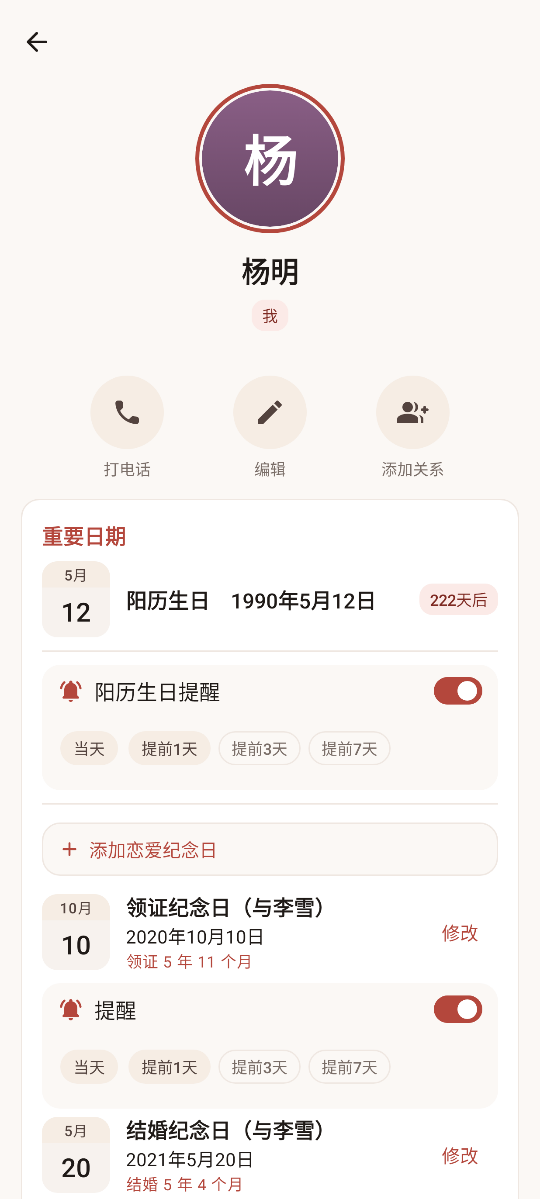
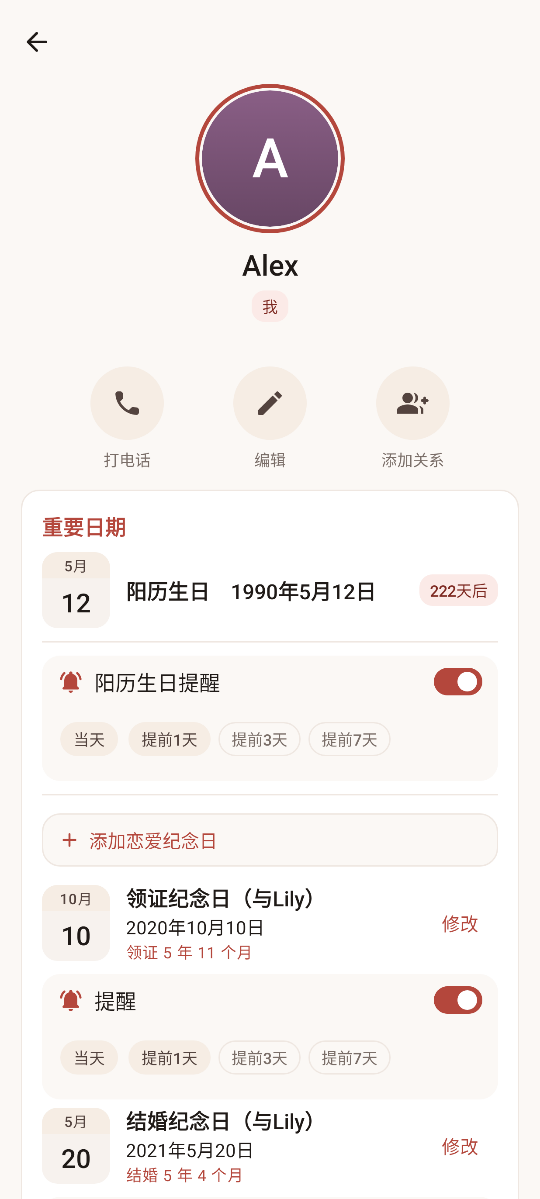
家人侠 2.0.0：README 截图刷新为现版界面（英文合成示例、一级页三项底栏）；dl-worker 统计命令修正

diff --git a/apps/android/app/src/test/java/io/github/xiaohaoz1/jiarenxia/screenshots/ReadmeShotsTest.kt b/apps/android/app/src/test/java/io/github/xiaohaoz1/jiarenxia/screenshots/ReadmeShotsTest.kt
@@ -4,11 +4,17 @@ import androidx.activity.ComponentActivity
 import androidx.compose.material3.MaterialTheme
 import androidx.compose.material3.SnackbarHostState
 import androidx.compose.material3.Surface
+import androidx.compose.material3.Scaffold
+import androidx.compose.foundation.layout.Box
+import androidx.compose.foundation.layout.padding
 import androidx.compose.foundation.layout.Column
 import androidx.compose.runtime.Composable
+import androidx.compose.ui.Modifier
 import androidx.compose.ui.test.captureToImage
 import androidx.compose.ui.test.junit4.createAndroidComposeRule
 import androidx.compose.ui.test.onRoot
+import androidx.compose.ui.test.onNodeWithText
+import androidx.compose.ui.test.performClick
 import com.github.takahirom.roborazzi.captureRoboImage
 import io.github.xiaohaoz1.jiarenxia.core.kinship.FamilyGraph
 import io.github.xiaohaoz1.jiarenxia.core.kinship.KinshipEngine
@@ -23,11 +29,12 @@ import io.github.xiaohaoz1.jiarenxia.ui.addfamily.AddFamilyContent
 import io.github.xiaohaoz1.jiarenxia.ui.addfamily.buildQuickEntries
 import io.github.xiaohaoz1.jiarenxia.ui.family.FamilyContent
 import io.github.xiaohaoz1.jiarenxia.ui.graph.GraphBranch
-import io.github.xiaohaoz1.jiarenxia.ui.graph.GraphBranches
+import io.github.xiaohaoz1.jiarenxia.ui.graph.GraphFamilyScope
 import io.github.xiaohaoz1.jiarenxia.ui.graph.GraphContent
 import io.github.xiaohaoz1.jiarenxia.ui.graph.GraphLayout
 import io.github.xiaohaoz1.jiarenxia.ui.graph.GraphTextMeasure
 import io.github.xiaohaoz1.jiarenxia.ui.mine.MineContent
+import io.github.xiaohaoz1.jiarenxia.ui.main.MainBottomBar
 import io.github.xiaohaoz1.jiarenxia.ui.person.PersonEditCallbacks
 import io.github.xiaohaoz1.jiarenxia.ui.person.PersonEditContent
 import io.github.xiaohaoz1.jiarenxia.ui.person.PersonEditMode
@@ -51,7 +58,8 @@ import java.time.LocalDate
 /**
  * README 与适老化截图（opt-in）：仅在 `-PreadmeShots=true` 时生成文件。
  *
- * - 六张 README 截图：手机尺寸（412×915dp），缩小到 540px 宽写入 docs/images/。
+ * - 七张 README 截图：手机尺寸（412×915dp），缩小到 540px 宽写入 docs/images/。
+ * - 公开截图统一使用英文合成姓名、健在人物，避免重名与状态标记造成误解。
  * - 大字号走查：fontScale 1.3 / 1.5 各一遍，写到临时目录供人工检查。
  * 普通测试运行全部跳过（不触碰 docs/images）。
  */
@@ -69,13 +77,19 @@ class ReadmeShotsTest {
             System.getProperty("jrx.readmeShots") == "true"
         )
 
-    private fun render(dark: Boolean, content: @Composable () -> Unit) {
+    private fun render(dark: Boolean, route: String? = null, content: @Composable () -> Unit) {
         composeRule.setContent {
             JiaRenXiaTheme(mode = if (dark) ThemeMode.DARK else ThemeMode.LIGHT) {
                 Surface(
                     color = MaterialTheme.colorScheme.background,
                     contentColor = MaterialTheme.colorScheme.onBackground
-                ) { content() }
+                ) {
+                    if (route == null) content() else Scaffold(
+                        bottomBar = { MainBottomBar(route) {} }
+                    ) { padding ->
+                        Box(Modifier.padding(padding)) { content() }
+                    }
+                }
             }
         }
     }
@@ -104,8 +118,8 @@ class ReadmeShotsTest {
     @Test
     fun readmeHome() {
         assume()
-        render(dark = false) {
-            FamilyContent(Demo.familyState(), Demo.lunar, {}, {}, {}, {}, {})
+        render(dark = false, route = "family") {
+            FamilyContent(Demo.familyState(publicSample = true), Demo.lunar, {}, {}, {}, {}, {})
         }
         save(File("../../../docs/images/screenshot_home.png"), 540)
     }
@@ -116,7 +130,7 @@ class ReadmeShotsTest {
         render(dark = false) {
             PersonDetailContent(
                 lunar = Demo.lunar,
-                st = Demo.detailOf("uncle"), today = Demo.today,
+                st = Demo.detailOf("uncle", publicSample = true), today = Demo.today,
                 snackbar = SnackbarHostState(),
                 onBack = {}, onEdit = {}, onRelate = {}, onOpenPerson = {},
                 onDial = {}, onSetReminder = { _, _ -> }, onSetReminderOffsets = { _, _ -> }, onSetCustomTitle = {}, onDeletePerson = {},
@@ -132,7 +146,7 @@ class ReadmeShotsTest {
         render(dark = false) {
             PersonDetailContent(
                 lunar = Demo.lunar,
-                st = Demo.selfDetail(), today = Demo.today,
+                st = Demo.selfDetail(publicSample = true), today = Demo.today,
                 snackbar = SnackbarHostState(),
                 onBack = {}, onEdit = {}, onRelate = {}, onOpenPerson = {},
                 onDial = {}, onSetReminder = { _, _ -> }, onSetReminderOffsets = { _, _ -> }, onSetCustomTitle = {}, onDeletePerson = {},
@@ -146,19 +160,23 @@ class ReadmeShotsTest {
     fun readmeGraph() {
         assume()
         render(dark = false) {
-            val ov = Demo.demoOverview()
+            val ov = Demo.demoOverview(publicSample = true)
             val gens = KinshipEngine().generations(ov.graph, ov.self.person.id)
+            val visible = GraphFamilyScope.visibleIds(ov, GraphBranch.ALL)
             GraphContent(
                 model = GraphLayout.build(
-                    ov, gens, sizer = GraphTextMeasure.sizer),
+                    ov, gens, visibleIds = visible, sizer = GraphTextMeasure.sizer),
                 byId = ov.byId, selfId = ov.self.person.id,
                 onBack = {}, onOpenPerson = {},
-                // README 图带上分支筛选行
                 branch = GraphBranch.ALL,
-                availableBranches = GraphBranches.available(ov),
-                connectedTotal = gens.size
+                availableBranches = GraphFamilyScope.available(ov),
+                familyTabs = GraphFamilyScope.tabs,
+                scopeAnchorId = ov.self.person.id,
+                connectedTotal = visible.size
             )
         }
+        composeRule.onNodeWithText("本支总览").performClick()
+        composeRule.waitForIdle()
         save(File("../../../docs/images/screenshot_graph.png"), 540)
     }
 
@@ -175,7 +193,7 @@ class ReadmeShotsTest {
     @Test
     fun readmeAffairs() {
         assume()
-        render(dark = false) {
+        render(dark = false, route = "reminder") {
             AffairsDemo()
         }
         save(File("../../../docs/images/screenshot_affairs.png"), 540)
@@ -184,8 +202,8 @@ class ReadmeShotsTest {
     @Test
     fun readmeHomeDark() {
         assume()
-        render(dark = true) {
-            FamilyContent(Demo.familyState(), Demo.lunar, {}, {}, {}, {}, {})
+        render(dark = true, route = "family") {
+            FamilyContent(Demo.familyState(publicSample = true), Demo.lunar, {}, {}, {}, {}, {})
         }
         save(File("../../../docs/images/screenshot_home_dark.png"), 540)
     }
@@ -201,7 +219,7 @@ class ReadmeShotsTest {
     private fun fontShot(name: String, fontScale: Float, dark: Boolean = false,
                          content: @Composable () -> Unit) {
         RuntimeEnvironment.setFontScale(fontScale)
-        render(dark, content)
+        render(dark, content = content)
         val dir = File(System.getenv("JRX_SHOTS_DIR")
             ?: File(System.getProperty("java.io.tmpdir"), "jiarenxia_shots").path)
         val prefix = if (fontScale >= 1.4f) "f15_" else "f13_"
@@ -223,7 +241,7 @@ class ReadmeShotsTest {
     }
 
     private fun reminderDemoState(): ReminderUiState {
-        val ov = Demo.demoOverview()
+        val ov = Demo.demoOverview(publicSample = true)
         val mom = ov.byId.getValue("mom")
         val gmd = ov.byId.getValue("gmd")
         val mil = ov.byId.getValue("mil")

diff --git a/apps/android/app/src/test/java/io/github/xiaohaoz1/jiarenxia/screenshots/Demo.kt b/apps/android/app/src/test/java/io/github/xiaohaoz1/jiarenxia/screenshots/Demo.kt
@@ -46,7 +46,7 @@ fun rel(s: String, t: String, type: RelationshipType, order: RelativeAgeOrder? =
     Relationship("r-$s-$t-$type", s, t, type, order)
 
 /** 演示家庭：我 杨明 + 三代亲属 + 一位未关联。 */
-fun demoGraph(): FamilyGraph {
+fun demoGraph(publicSample: Boolean = false): FamilyGraph {
     val persons = listOf(
         p("me", "杨明", Gender.MALE, self = true),
         p("dad", "杨建国", Gender.MALE),
@@ -110,15 +110,28 @@ fun demoGraph(): FamilyGraph {
         io.github.xiaohaoz1.jiarenxia.domain.lunar.BirthdayMath.solarBirthDate(b, lunar)
             ?.let { id to PartialDate(it.year, it.monthValue, it.dayOfMonth) }
     }.toMap()
-    return FamilyGraph(persons, rels, solar, birthdayValues.mapValues { listOf(it.value) })
+    // 公开宣传图使用英文合成姓名与健在人物，避免中文重名造成误解。
+    val publicNames = mapOf(
+        "me" to "Alex", "dad" to "David", "mom" to "Emma",
+        "gfd" to "George", "gmd" to "Grace", "wife" to "Lily",
+        "fil" to "Henry", "mil" to "Helen", "dau" to "Lucy",
+        "bro" to "Ben", "uncle" to "James", "aunt" to "Alice",
+        "uncle_m" to "Jack", "other" to "Oliver", "bomu" to "Rose",
+        "cousin" to "Leo", "cousin_m" to "Sophie", "sao" to "Anna",
+        "jiuzi" to "Ryan"
+    )
+    val samplePersons = if (publicSample) persons.map {
+        it.copy(name = publicNames.getValue(it.id), livingStatus = LivingStatus.ALIVE)
+    } else persons
+    return FamilyGraph(samplePersons, rels, solar, birthdayValues.mapValues { listOf(it.value) })
 }
 
 /** 与 ObserveFamilyOverview.build 相同的组装方式。 */
 /** 演示用自定义称呼（DATABASE_SCHEMA 25.2）：杨建春 → “大伯”。 */
 val customTitles: Map<String, String> = mapOf("uncle" to "大伯")
 
-fun demoOverview(): FamilyOverview {
-    val graph = demoGraph()
+fun demoOverview(publicSample: Boolean = false): FamilyOverview {
+    val graph = demoGraph(publicSample)
     val engine = KinshipEngine()
     val self = graph.persons.first { it.isSelf }
     val results = engine.resolveAll(graph, self.id)
@@ -140,8 +153,8 @@ fun demoOverview(): FamilyOverview {
     )
 }
 
-fun familyState() = FamilyUiState(
-    overview = demoOverview(),
+fun familyState(publicSample: Boolean = false) = FamilyUiState(
+    overview = demoOverview(publicSample),
     defaultNumbers = mapOf(
         "me" to "13800138000",
         "mom" to "13912345678"
@@ -149,8 +162,8 @@ fun familyState() = FamilyUiState(
     today = today
 )
 
-fun detailOf(id: String): PersonDetailUiState {
-    val ov = demoOverview()
+fun detailOf(id: String, publicSample: Boolean = false): PersonDetailUiState {
+    val ov = demoOverview(publicSample)
     val o = ov.byId.getValue(id)
     val birthdays = (ov.graph.birthdayValues[id] ?: emptyList()).associate { v ->
         val dateId = "d-$id-" + v.calendar.name
@@ -197,9 +210,9 @@ fun detailOf(id: String): PersonDetailUiState {
  * “我”的详情：领证/结婚两条已填纪念日走 DateRowDetail 面板，
  * 恋爱纪念日留空走 AddDateRow 添加入口，展示新的提醒面板样式。
  */
-fun selfDetail(): PersonDetailUiState {
-    val base = detailOf("me")
-    val ov = demoOverview()
+fun selfDetail(publicSample: Boolean = false): PersonDetailUiState {
+    val base = detailOf("me", publicSample)
+    val ov = demoOverview(publicSample)
     val me = ov.byId.getValue("me").person
     val wife = ov.byId.getValue("wife").person
     fun entry(t: ImportantDateType, y: Int, m: Int, d: Int) =

diff --git a/README.md b/README.md
@@ -37,7 +37,7 @@
 | <img src="docs/images/screenshot_affairs.png" width="240"> | <img src="docs/images/screenshot_home_dark.png" width="240"> | |
 | 家事（提醒） | 深色模式 | |
 
-功能截图为合成示例数据。
+功能截图来自当前 2.0.0 版本，人物均为英文名的合成示例，全部设为健在，不对应真实家庭。
 
 ---
 
